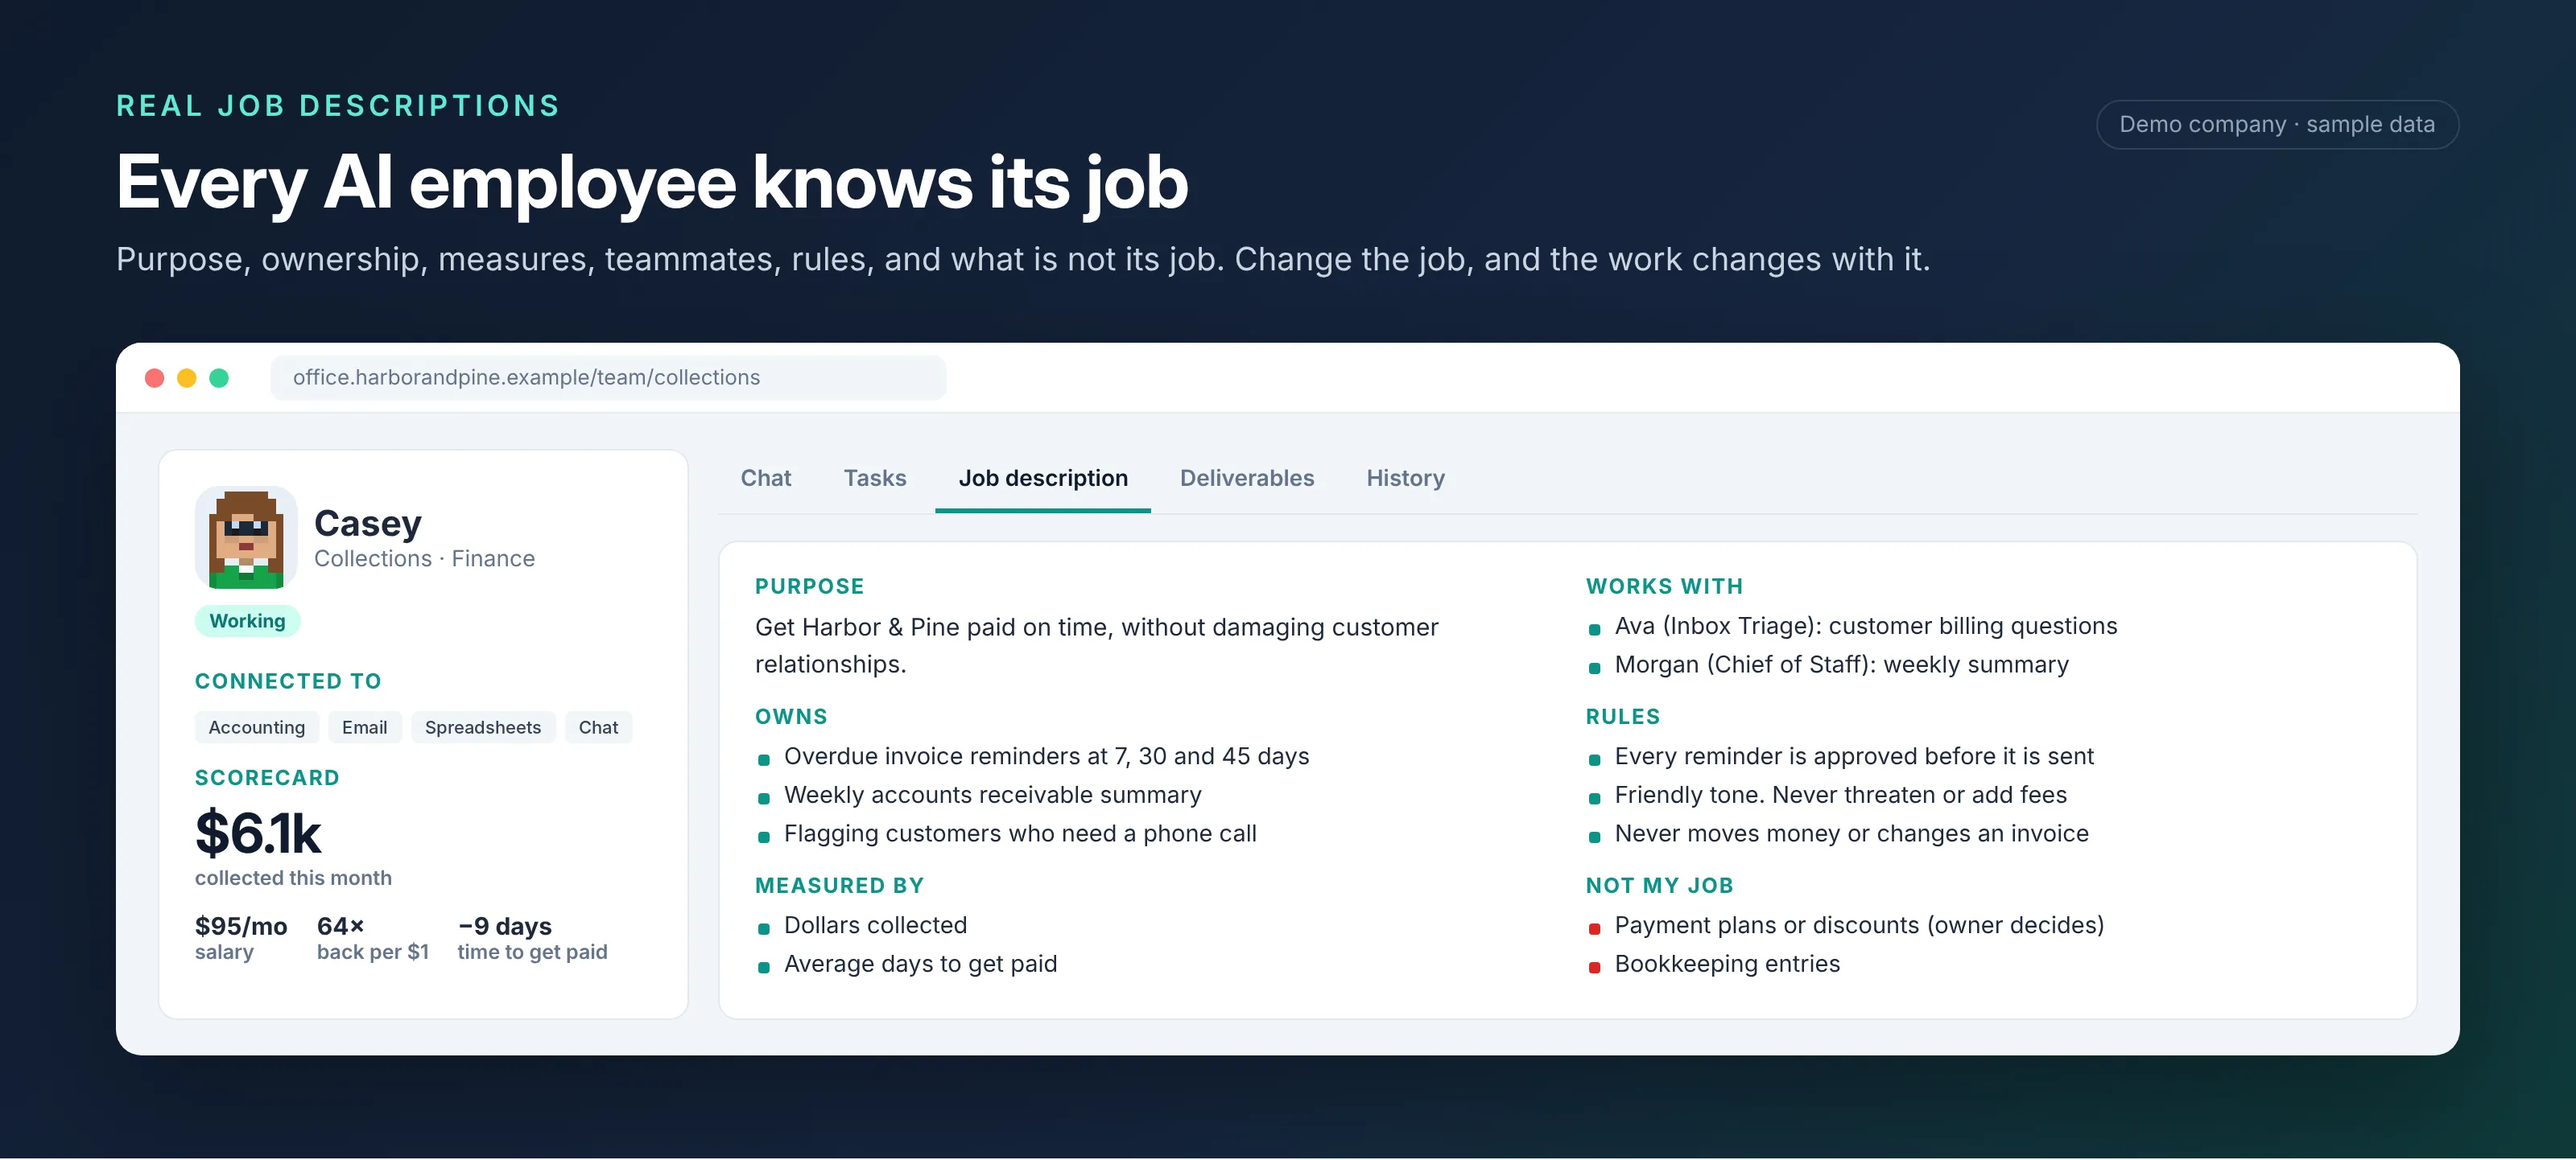
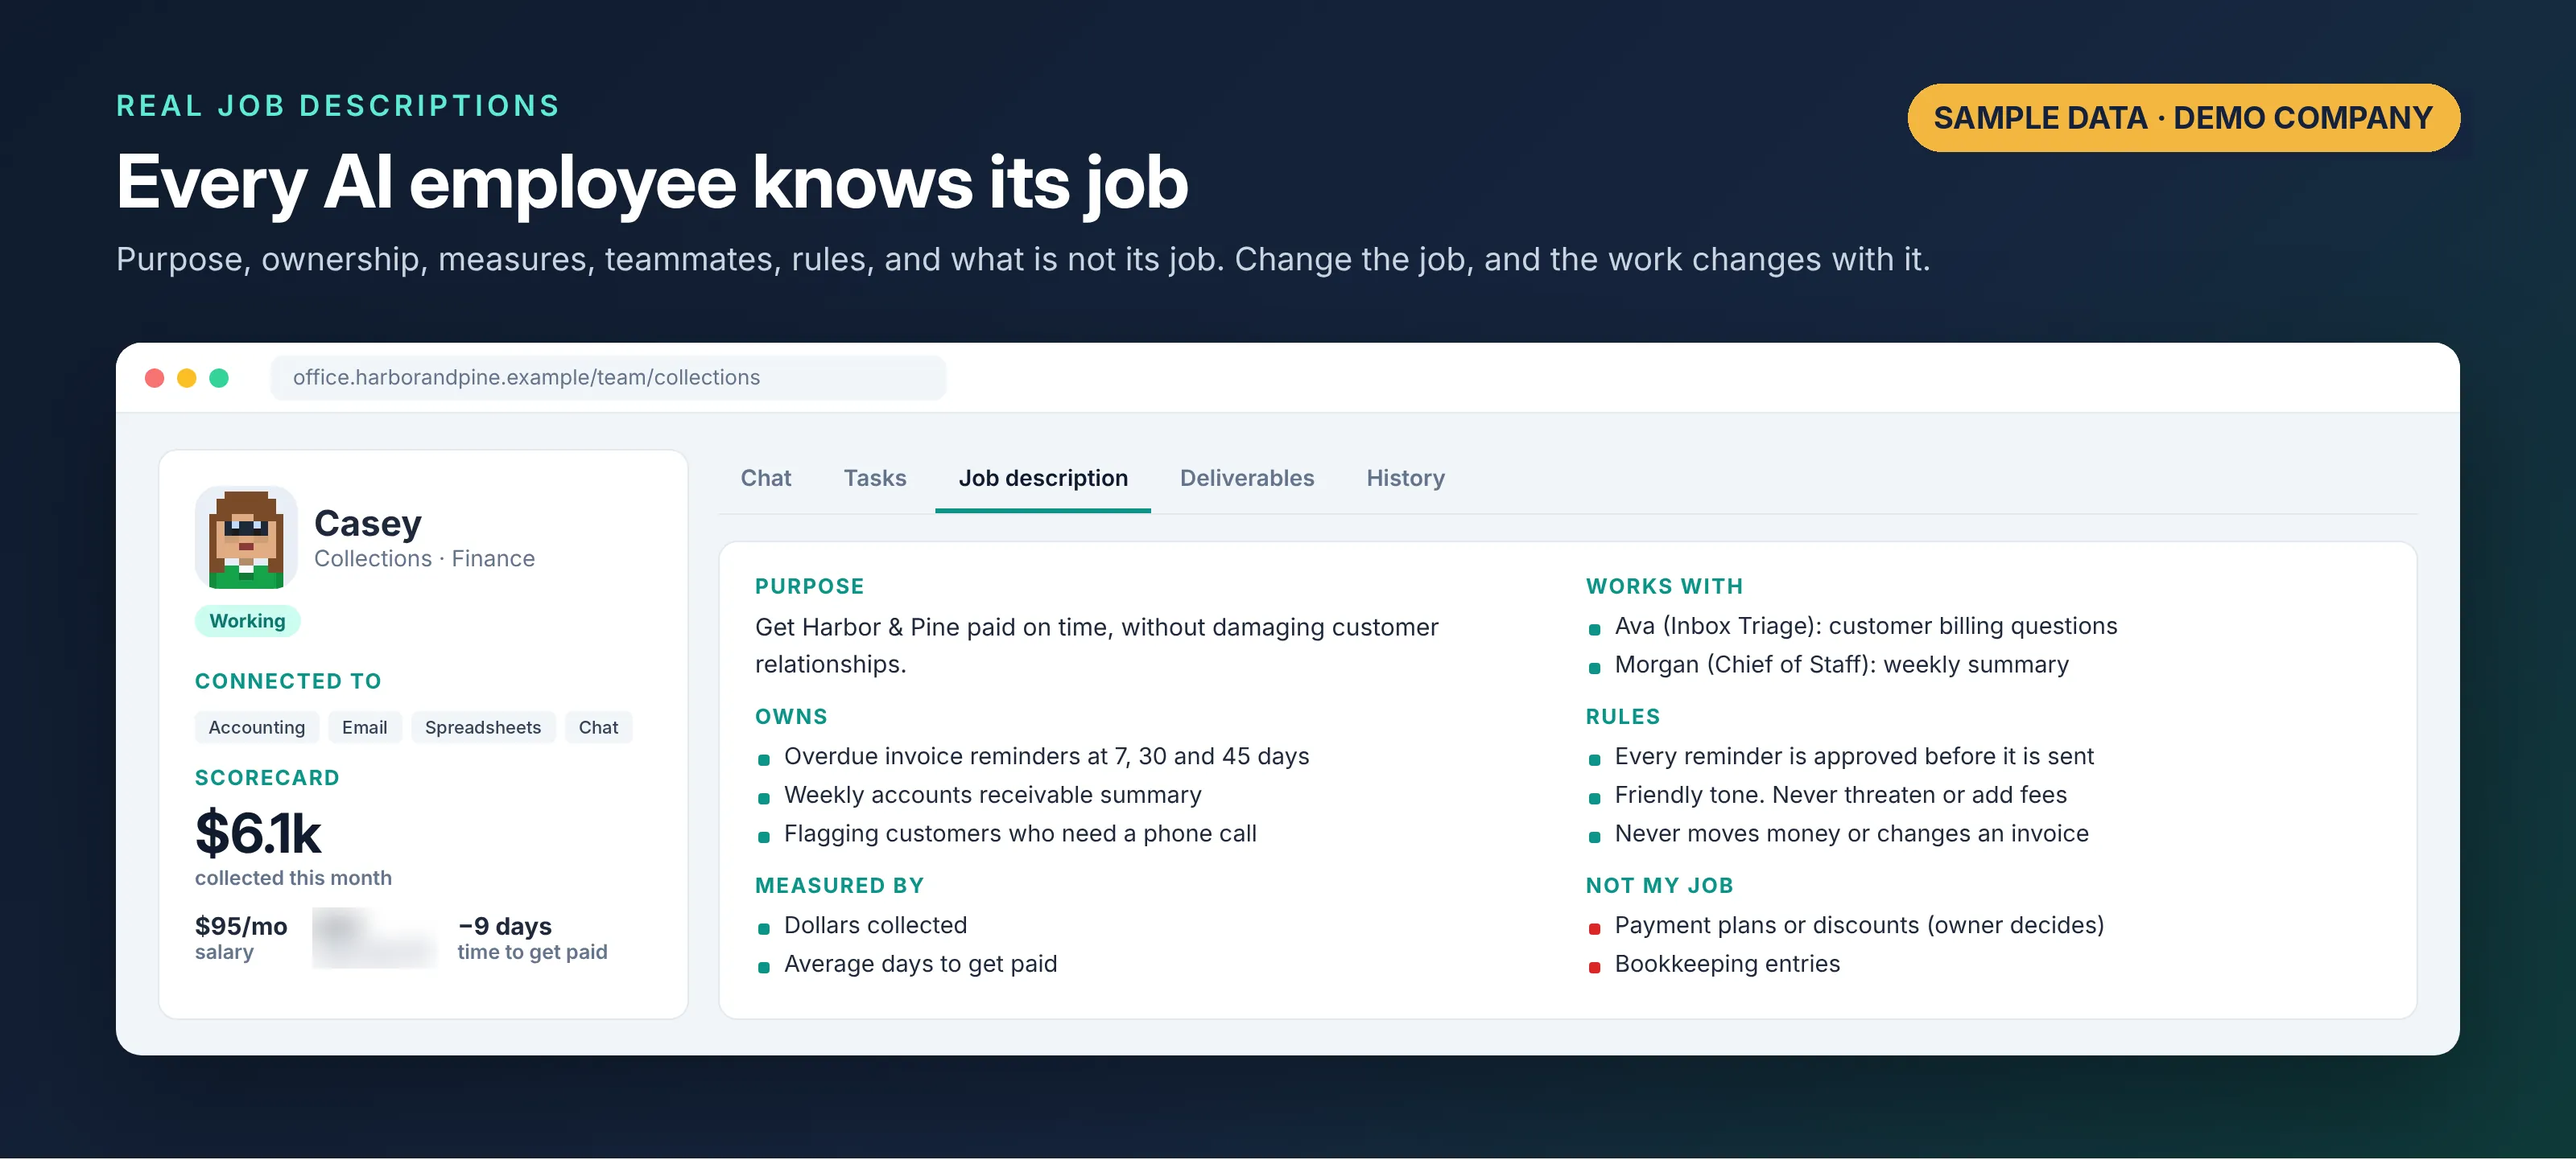
Label AI Workforce demo screenshots as sample data and blur demo returns
Claude-Session: https://claude.ai/code/session_01SMmsKiJv2QkX4SPLzNsWuH

Changed region(s): [[0.7188, 0.0624, 0.9688, 0.156], [0.125, 0.7802, 0.1562, 0.8426]]

diff --git a/ai-workforce.html b/ai-workforce.html
@@ -173,7 +173,7 @@
       <div class="wrap">
         <figure class="aiw-shot">
           <img src="/images/ai-workforce/01-floor-1600.webp" srcset="/images/ai-workforce/01-floor-1600.webp 1600w, /images/ai-workforce/01-floor-3200.webp 3200w" sizes="(max-width: 1120px) 100vw, 1080px" width="1600" height="1000" alt="Illustrated AI Workforce office floor for a demo home services company: AI employees at desks in Sales, Service, Operations, Finance, and Marketing, each marked Working, Needs you, or Coffee break, with the owner in a meeting" fetchpriority="high">
-          <figcaption>Demo company with sample data. Each AI employee sits at a desk with a status you can see at a glance.</figcaption>
+          <figcaption>Sample data from a demo company, not client results. Each AI employee sits at a desk with a status you can see at a glance.</figcaption>
         </figure>
       </div>
     </section>
@@ -193,11 +193,11 @@
         </div>
         <figure class="aiw-shot">
           <img src="/images/ai-workforce/02-office-1600.webp" srcset="/images/ai-workforce/02-office-1600.webp 1600w, /images/ai-workforce/02-office-3200.webp 3200w" sizes="(max-width: 1120px) 100vw, 1080px" width="1600" height="851" alt="Team office page for a demo company: desk cards for the owner and ten AI employees across sales, service, operations, finance, marketing, and leadership, each with a status, current task, and scorecard chips" loading="lazy" decoding="async">
-          <figcaption>Demo company with sample data. The whole team on one page, with what each desk is doing and what it has delivered.</figcaption>
+          <figcaption>Sample data from a demo company, not client results. The whole team on one page, with what each desk is doing and what it has delivered.</figcaption>
         </figure>
         <figure class="aiw-shot">
           <img src="/images/ai-workforce/03-job-1600.webp" srcset="/images/ai-workforce/03-job-1600.webp 1600w, /images/ai-workforce/03-job-3200.webp 3200w" sizes="(max-width: 1120px) 100vw, 1080px" width="1600" height="721" alt="A demo AI employee's job description tab: purpose, what it owns, how it is measured, who it works with, its rules, and what is not its job, next to its connected tools and scorecard" loading="lazy" decoding="async">
-          <figcaption>Demo company with sample data. Every desk has a written job description it reads before it works.</figcaption>
+          <figcaption>Sample data from a demo company, not client results. Every desk has a written job description it reads before it works.</figcaption>
         </figure>
       </div>
     </section>
@@ -209,7 +209,7 @@
         <p class="section-lead">Your day becomes a short list of approvals instead of a long list of tasks.</p>
         <figure class="aiw-shot">
           <img src="/images/ai-workforce/06-flow-1600.webp" srcset="/images/ai-workforce/06-flow-1600.webp 1600w, /images/ai-workforce/06-flow-3200.webp 3200w" sizes="(max-width: 1120px) 100vw, 1080px" width="1600" height="781" alt="Six steps from request to done: hand out work, the right desk picks it up, the work gets done, a second desk checks it, you approve, and it ships and gets measured" loading="lazy" decoding="async">
-          <figcaption>Demo company with sample data.</figcaption>
+          <figcaption>Sample data from a demo company, not client results.</figcaption>
         </figure>
         <div class="aiw-steps">
           <div class="aiw-step"><span class="step-num">1</span><h3>You hand out work</h3><p>Type it at a desk, say it out loud, or post it in your team chat. A message to the whole team gets split into tasks for each desk that should act on it.</p></div>
@@ -265,7 +265,7 @@
         <p class="section-lead">It's the first question every owner asks, so these rules are built in from day one.</p>
         <figure class="aiw-shot">
           <img src="/images/ai-workforce/04-approvals-1600.webp" srcset="/images/ai-workforce/04-approvals-1600.webp 1600w, /images/ai-workforce/04-approvals-3200.webp 3200w" sizes="(max-width: 1120px) 100vw, 1080px" width="1600" height="928" alt="The Needs you approvals list for a demo company: a customer email, a parts order, and new leads each waiting with the real file shown and Approve, Decline, and Answer buttons, plus one item a partner already approved" loading="lazy" decoding="async">
-          <figcaption>Demo company with sample data. Anything customer-facing or money-related waits here, with the real file in front of you.</figcaption>
+          <figcaption>Sample data from a demo company, not client results. Anything customer-facing or money-related waits here, with the real file in front of you.</figcaption>
         </figure>
         <div class="grid grid-2">
           <ul class="ticks">
@@ -292,7 +292,7 @@
         <p class="section-lead">Every desk shows what it delivered, what it costs each month, and what comes back for every $1. Scorecards refresh several times a day from your own data, so you can see which desks earn their keep.</p>
         <figure class="aiw-shot">
           <img src="/images/ai-workforce/05-scorecard-1600.webp" srcset="/images/ai-workforce/05-scorecard-1600.webp 1600w, /images/ai-workforce/05-scorecard-3200.webp 3200w" sizes="(max-width: 1120px) 100vw, 1080px" width="1600" height="847" alt="Scorecards for a demo company: work finished, owner decisions, team cost, and hours handed off, with each desk listed by what it delivered, its monthly salary, and its return per $1" loading="lazy" decoding="async">
-          <figcaption>Demo company with sample data. Your scorecards are built from your own numbers.</figcaption>
+          <figcaption>Sample data from a demo company, not client results. Your scorecards are built from your own numbers.</figcaption>
         </figure>
       </div>
     </section>
